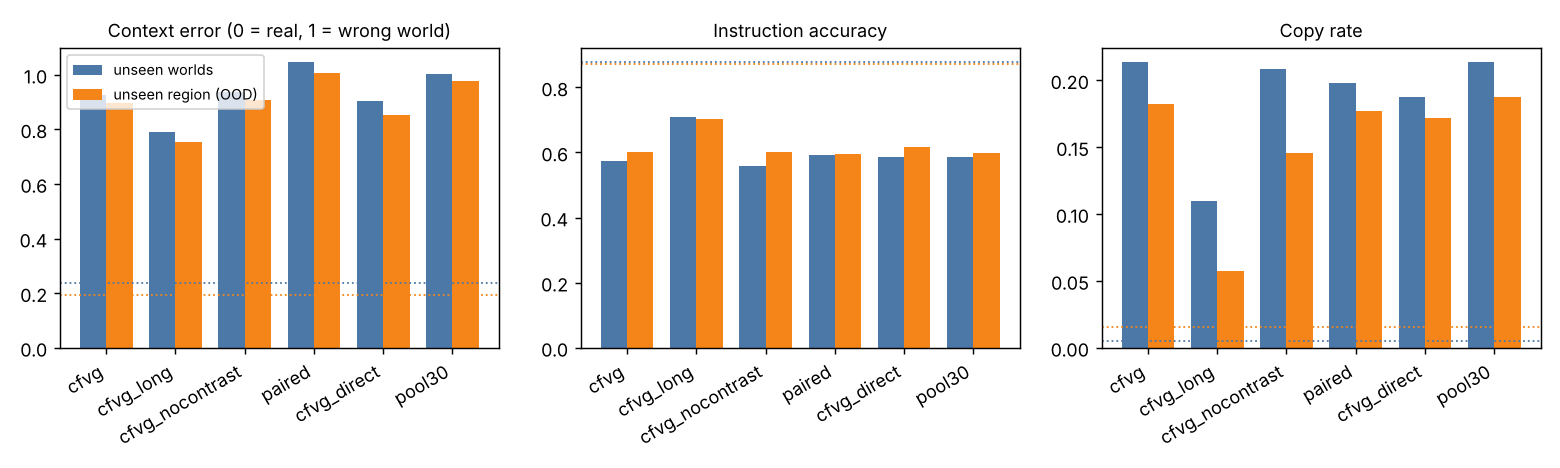
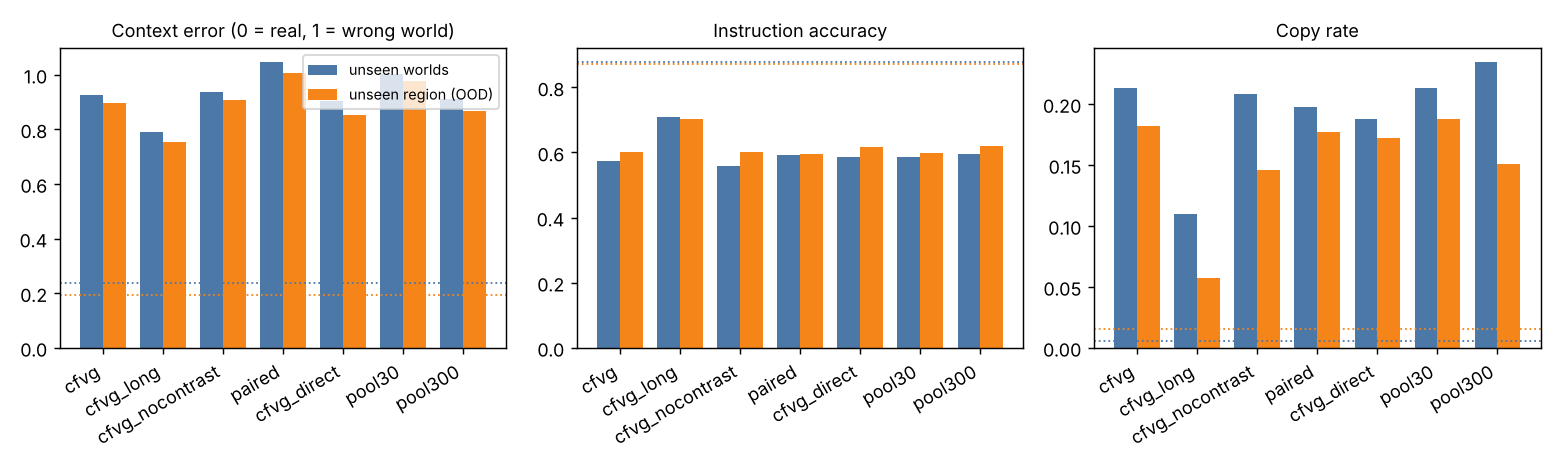
Add 300-world diversity results
Claude-Session: https://claude.ai/code/session_01JTynV56NT4MEBhr1tnkV8W

diff --git a/cfvg/experiments/results/summary.md b/cfvg/experiments/results/summary.md
@@ -59,6 +59,7 @@ Snap baseline (never leaves training gravity range) OOD gravity error: 0.045
 | worlds in training | context score (unseen) | context score (OOD) | instr acc (unseen) | copy rate (unseen) |
 |---|---|---|---|---|
 | 30 | 1.001 | 0.976 | 0.585 | 0.214 |
+| 300 | 0.912 | 0.867 | 0.596 | 0.234 |
 | unlimited | 0.926 | 0.896 | 0.574 | 0.214 |
 
 ![pool](pool_scaling.png)
